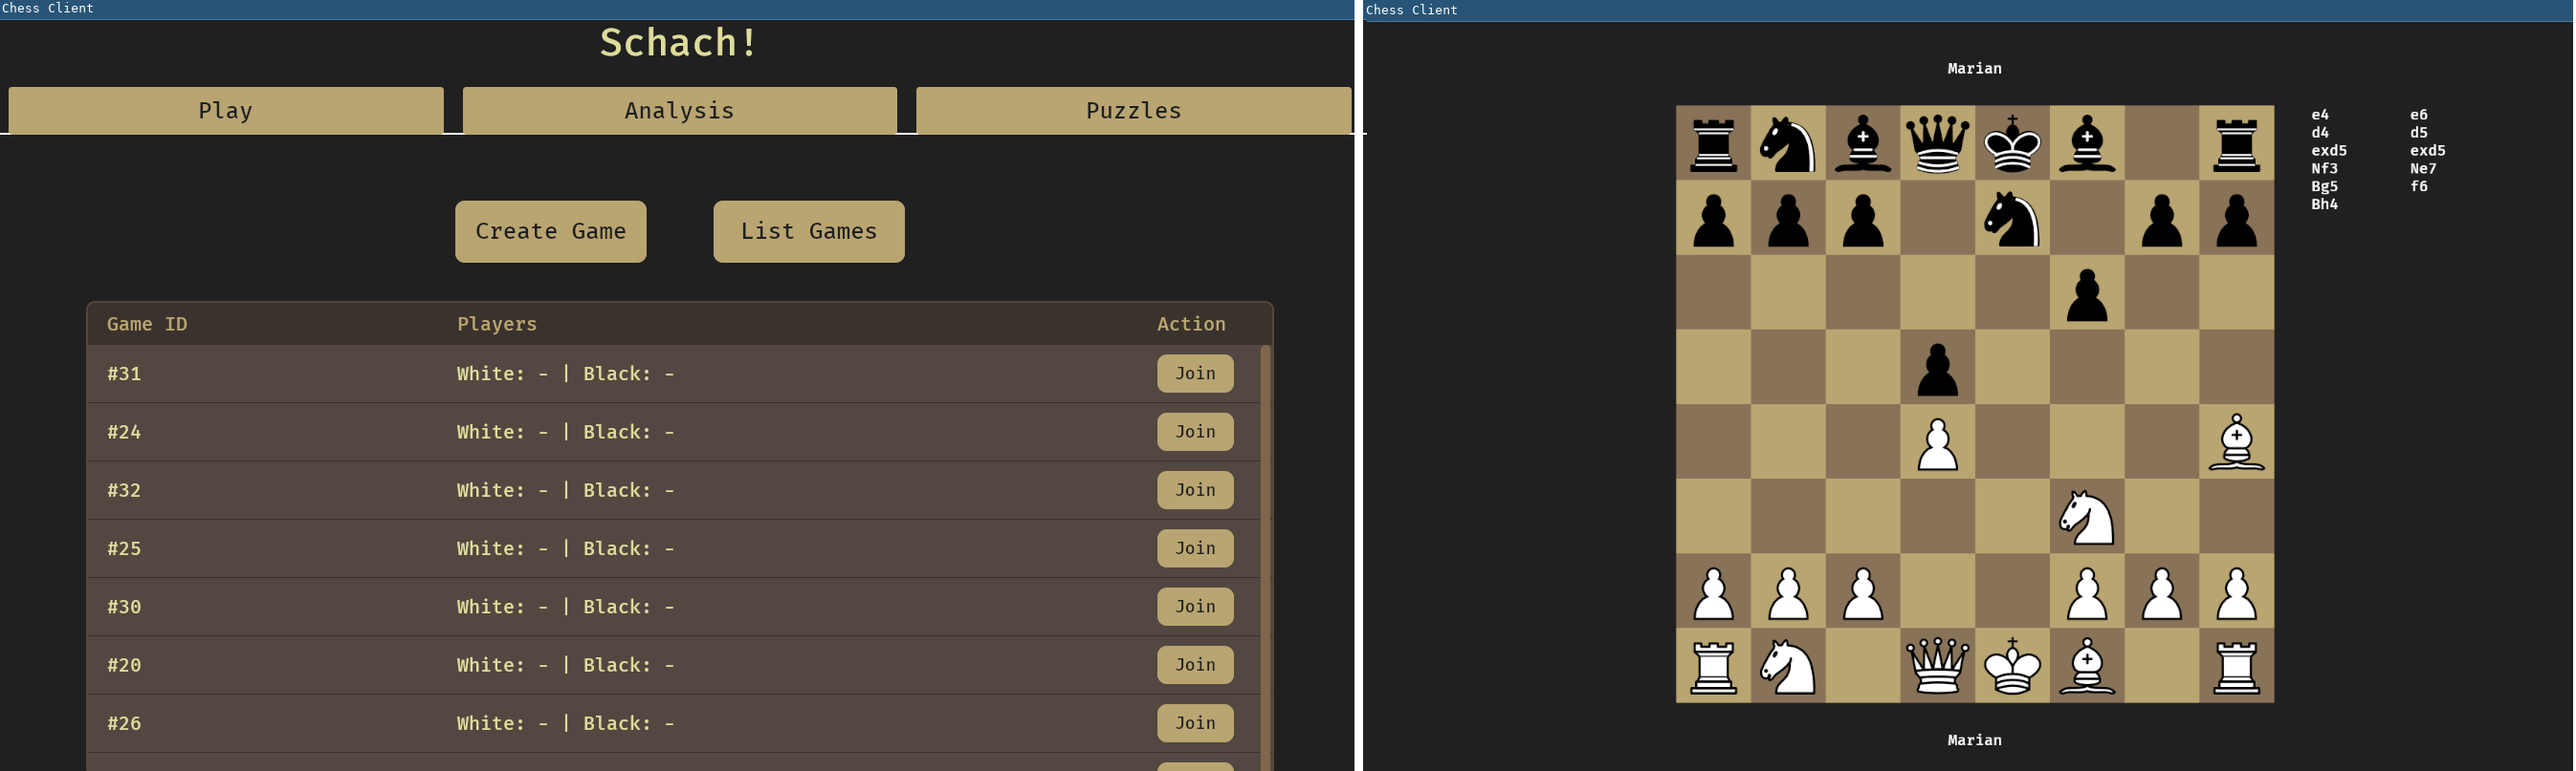
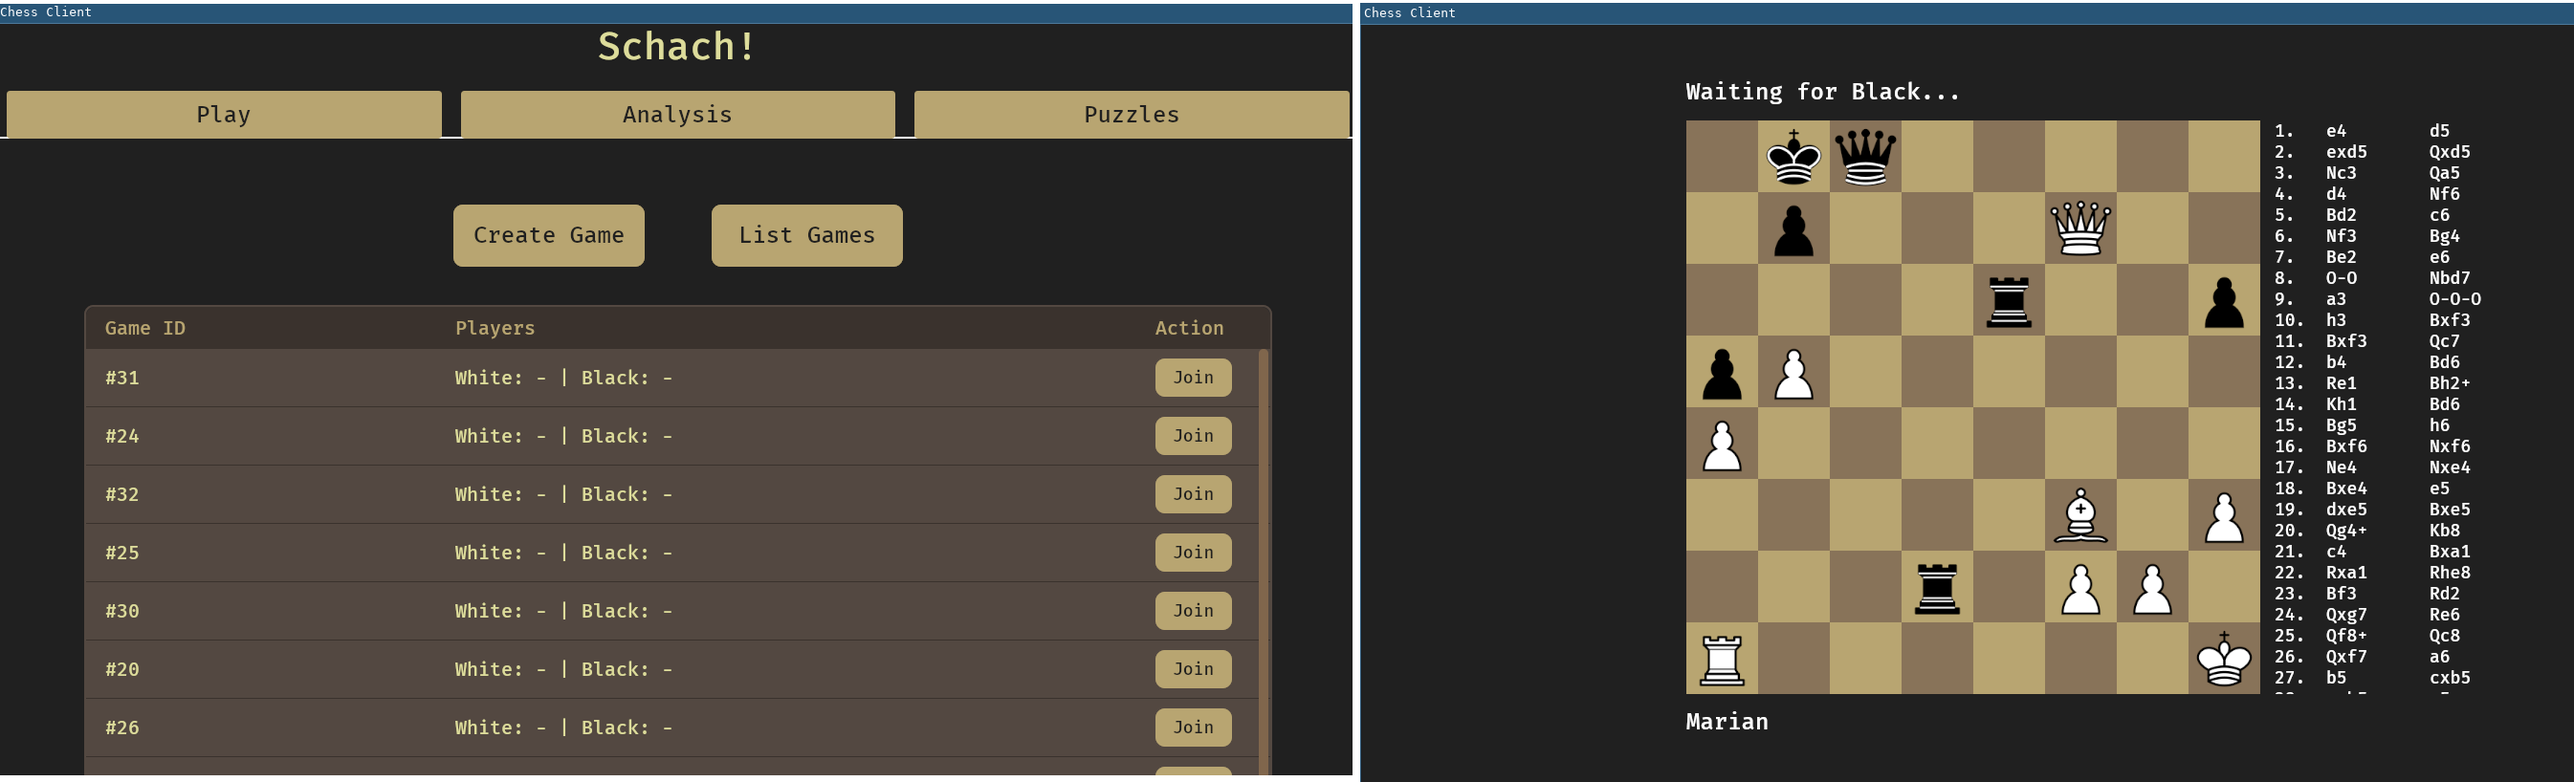
Version bump to 0.1.4

diff --git a/Readme.md b/Readme.md
@@ -30,6 +30,8 @@ Could evolve in either a small-sized online chess or a chess analysis software i
 
 - [x] Nicknames
 
+- [x] Move history
+
 ### Short/Mid-Term TODO:
 
 - [ ] Better Client with better GUI
@@ -39,8 +41,6 @@ Could evolve in either a small-sized online chess or a chess analysis software i
 - [ ] Offer Draw
 
 - [ ] Resigning
-
-- [ ] Move history
 
 - [ ] Time control management
 
